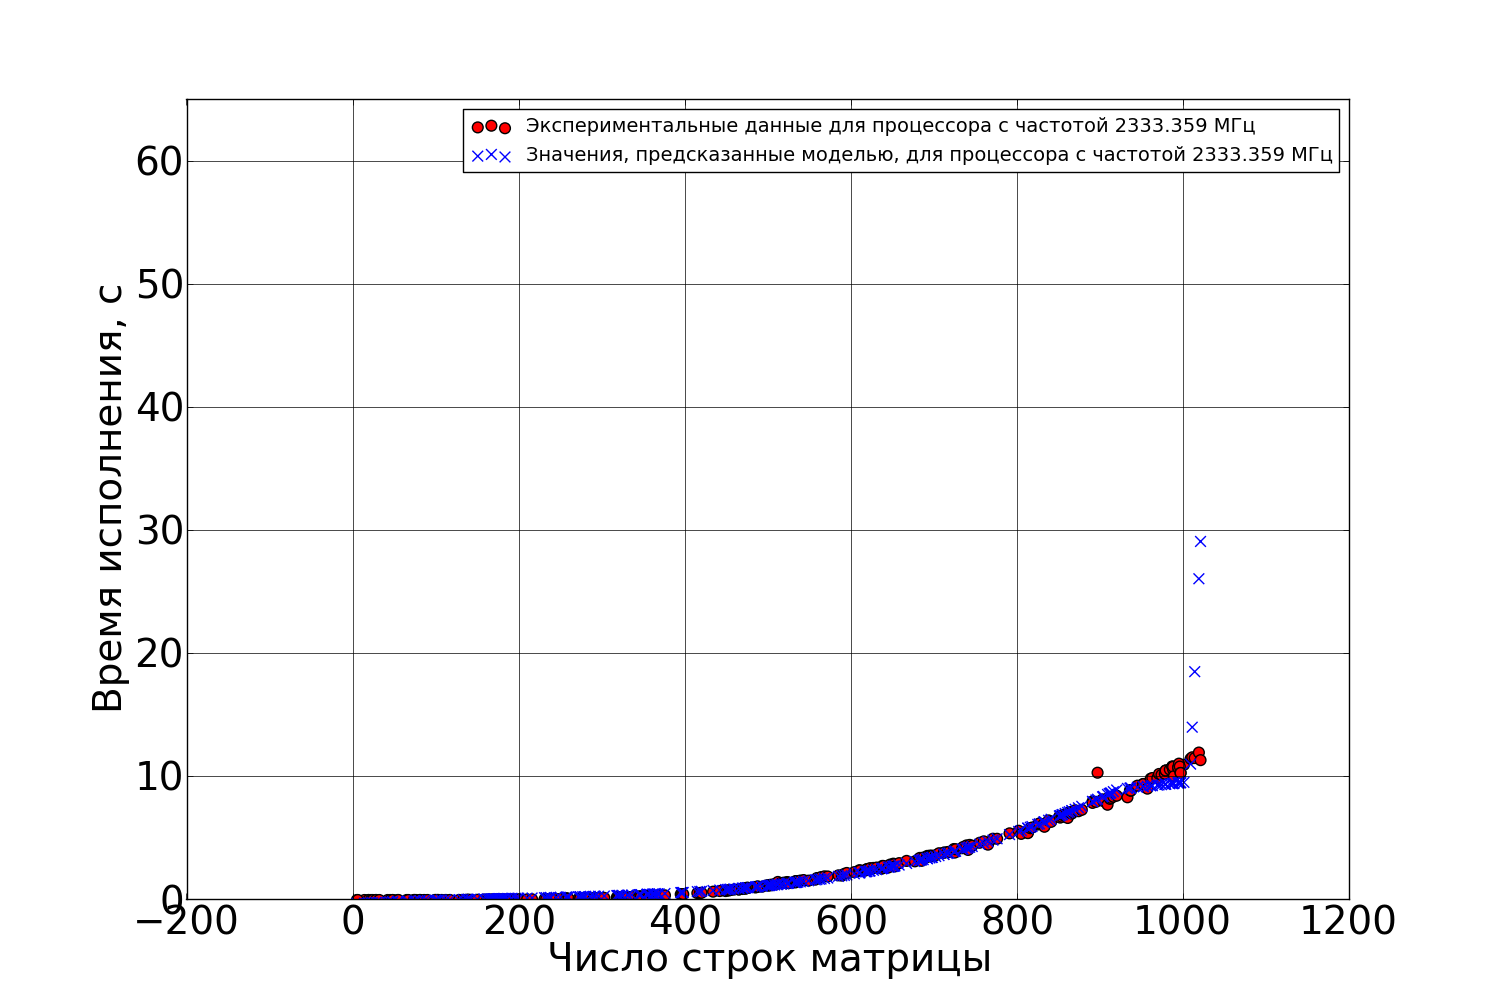
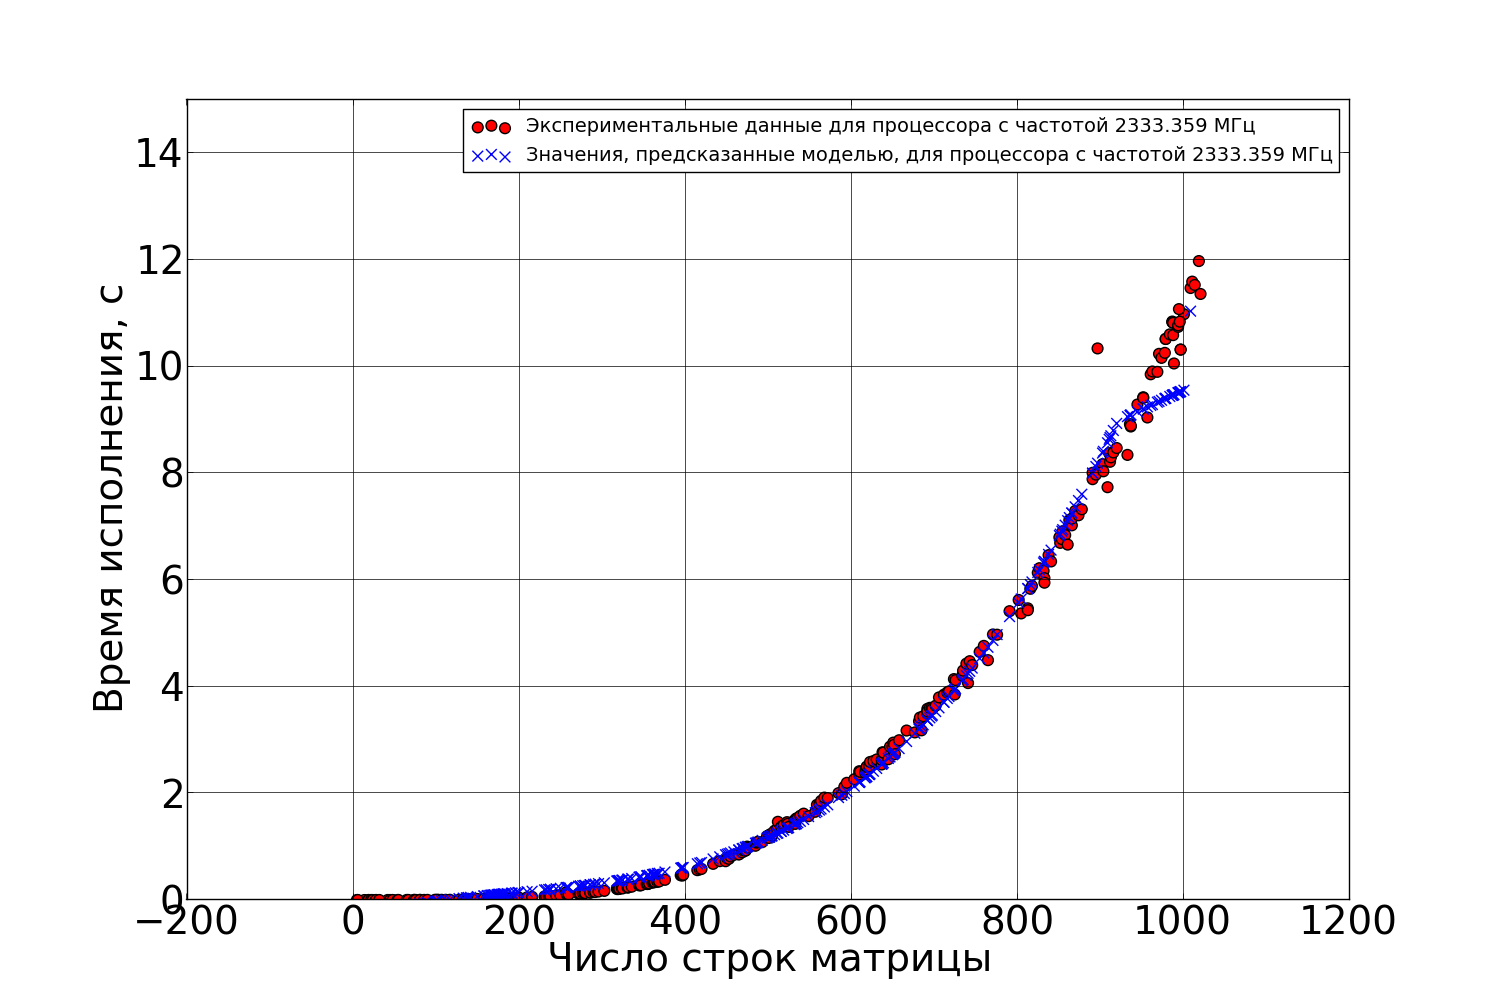
Shrinked the graph vertically.

diff --git a/practice12/impl/src/system.py b/practice12/impl/src/system.py
@@ -296,7 +296,7 @@ def plot_predictions_distinct_2d(filename, predictor):
             c=cs[1], marker='x', s=60,
             cmap=cmap)
 
-        ax3d.set_ylim([0, 65])
+        ax3d.set_ylim([0, 15])
         plt.grid(b=True, which='major', color='k', linestyle='-')
 
         ax3d.xaxis.set_label_text(u'Число строк матрицы')
